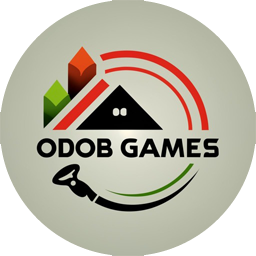
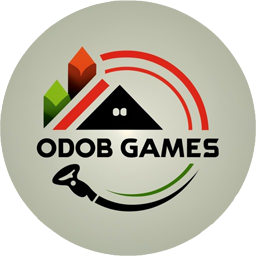
Icono

diff --git a/_includes/head.html b/_includes/head.html
@@ -9,6 +9,7 @@
   <meta name="author" content="{{ site.meta_author }}">{% endif %}
   <link rel="canonical" href="{{ page.url | replace:'index.html','' | prepend: site.url }}">
   <link rel="alternate" type="application/rss+xml" title="RSS" href="feed.xml">
+  <link rel="icon" href="{{ 'img/profile.png' }}">
 
   <!-- Custom CSS & Bootstrap Core CSS - Uses Bootswatch Flatly Theme: http://bootswatch.com/flatly/ -->
   <link rel="stylesheet" href="{{ " style.css" }}">
